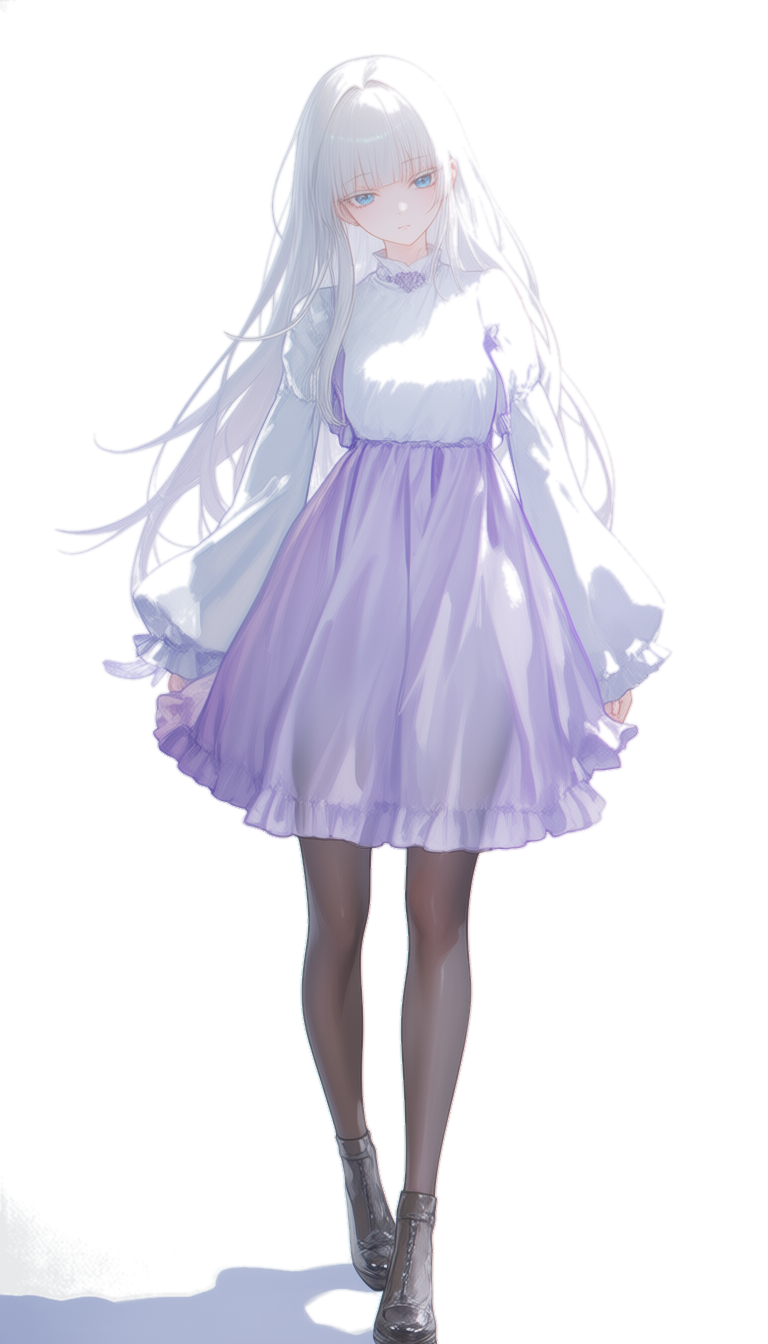
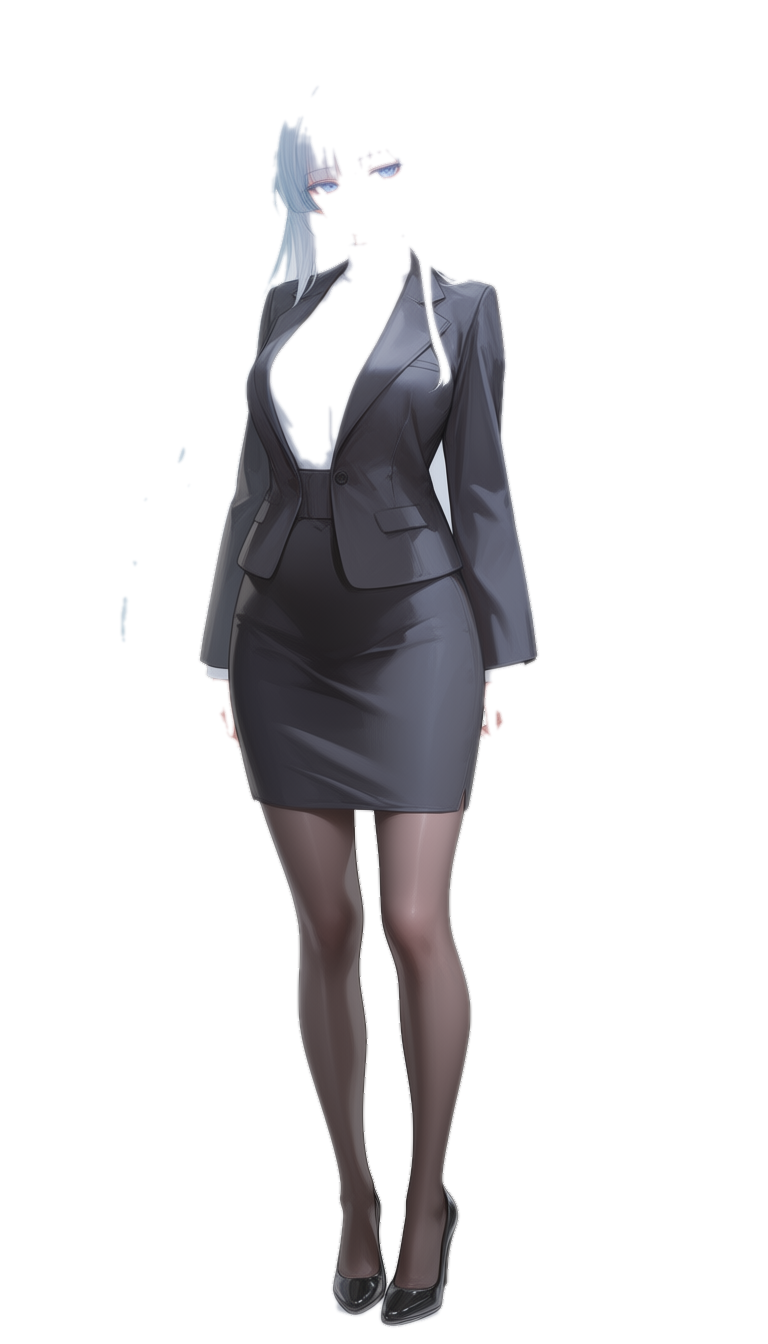
fix: 林仪立绘 v4（标准OL服+冷淡表情）

diff --git a/scripts/gen_fullbody.py b/scripts/gen_fullbody.py
@@ -34,12 +34,16 @@ NEGATIVE = ("worst quality, low quality, score_1, score_2, score_3, artist name,
 # 参考图版专用：参考图是 1216x832 角色场景图，负面词加场景词防泄漏
 REF_NEGATIVE = NEGATIVE + ", desk, office, classroom, computer, window, indoor, room, furniture, background objects"
 
+# 角色专属负面词（不污染全局 NEGATIVE——全局含 smile 会压制白月/苏昀/塞壬已确认的微笑表情）
+#   linyi v4: 用户要求更冷淡（防微笑/温暖/可爱）
+NEGATIVE_EXTRA = {"linyi": ", smile, warm expression, cute"}
+
 PREFIX = "masterpiece, best quality, score_7, safe, year 2026, newest, absurdres, highres, "
 
 # 2026-08-16 用户确认的最终外观描述（勿改，勿回退到草案表）
 CHARACTER_PROMPTS = {
     "baiyue": "1girl, solo, standing, full body, front view, green hair, green eyes, sailor collar school uniform, short pleated skirt, white over-knee socks, cheeky confident smile, young girl, simple white background, plain background, character illustration, soft brush texture",
-    "linyi": "1girl, solo, standing, full body, front view, white hair, long hair, blue eyes, white and purple dress, black pantyhose, mature, cold elegant expression, standing upright, arms at sides, relaxed natural pose, simple white background, plain background, character illustration, soft brush texture",
+    "linyi": "1girl, solo, standing, full body, front view, white hair, long hair, blue eyes, black blazer jacket, white blouse, black pencil skirt, black pantyhose, black high heels, mature, cold aloof expression, emotionless eyes, stern look, looking at viewer, standing upright, arms at sides, relaxed natural pose, simple white background, plain background, character illustration, soft brush texture",
     "liuyue": "1girl, solo, standing, full body, front view, long pink hair, ahoge, black hair accessory bow, pink eyes, delicate face, soft fair skin, white long-sleeve shirt, big black bow tie, black suspender skirt, lace decorations, black over-the-knee socks, lace on over-the-knee socks, shy expression, standing upright, arms at sides, relaxed natural pose, simple white background, plain background, character illustration, soft brush texture",
     "suyun": "1girl, solo, standing, full body, front view, rainbow-colored long hair tied back, golden eyes, white dress, light apron, mature gentle smile, soft warm expression, simple white background, plain background, character illustration, soft brush texture",
     "siren": "1girl, solo, standing, full body, front view, gray twin-tails with blue-purple gradient tips, purple eyes, pointed elf ears, silver tiara, small arm fins and head fins, white sheer camisole top, pearl and seashell accessories, mermaid tail, delicate fragile smile, simple white background, plain background, character illustration, soft brush texture",
@@ -64,7 +68,7 @@ def workflow(char_id, seed):
         "4": {"class_type": "CFGNorm", "inputs": {"model": ["3", 0], "strength": 1, "pre_cfg": False}},
         "5": {"class_type": "CLIPLoader", "inputs": {"clip_name": "miaomiaoHarem_anima8Step10_txt.safetensors", "type": "qwen_image", "device": "default"}},
         "6": {"class_type": "CLIPTextEncode", "inputs": {"text": PREFIX + CHARACTER_PROMPTS[char_id], "clip": ["5", 0]}},
-        "7": {"class_type": "CLIPTextEncode", "inputs": {"text": NEGATIVE, "clip": ["5", 0]}},
+        "7": {"class_type": "CLIPTextEncode", "inputs": {"text": NEGATIVE + NEGATIVE_EXTRA.get(char_id, ""), "clip": ["5", 0]}},
         "8": {"class_type": "EmptySD3LatentImage", "inputs": {"width": 768, "height": 1344, "batch_size": 1}},
         "9": {"class_type": "KSampler", "inputs": {"model": ["4", 0], "positive": ["6", 0], "negative": ["7", 0],
               "latent_image": ["8", 0], "seed": seed, "steps": 20, "cfg": 1.0,
@@ -158,7 +162,8 @@ def char_seed(char_id):
 
 # 单角色重跑种子覆盖（用户指定，记录在案）：
 #   linyi v3: 用户对 v2(1093860) 不满意，换种子重跑，提示词/参数不变
-SEED_OVERRIDES = {"linyi": 2157431}
+#   linyi v4: 用户要求换标准 OL 服 + 冷淡表情，换种子重跑
+SEED_OVERRIDES = {"linyi": 3186572}
 
 def workflow_ref(char_id, seed):
     """参考图版（img2img）：参考图 1216x832 -> 拉伸到 768x1344 -> VAEEncode 作初始潜变量
@@ -226,6 +231,44 @@ def gen_one_ref(char_id, seed):
     print(f"  {char_id} 参考图版超时（>900s），跳过", flush=True)
     return False
 
+def whiten_if_needed(raw_png, char_dir):
+    """背景增白（条件触发，参考 linyi v3 经验）：底图背景若偏色（边界连通亮区均值 <245），
+    把背景区（含暗斑）提升至纯白并羽化边界，覆盖 raw_fullbody.png（表情 inpaint 底图用纯白版）；
+    背景已近纯白则原样返回。原图保留为 raw_fullbody_orig.png。"""
+    try:
+        import numpy as np
+        from scipy import ndimage
+    except Exception:
+        return raw_png
+    arr = np.asarray(Image.open(raw_png).convert("RGB")).astype(np.int16)
+    light = arr.max(axis=2) > 200
+    if not light.any():
+        return raw_png
+    lab, n = ndimage.label(light)
+    border = np.zeros_like(lab, bool)
+    border[0, :] = border[-1, :] = border[:, 0] = border[:, -1] = True
+    bg_ids = set(lab[border])
+    bg_ids.discard(0)
+    if not bg_ids:
+        return raw_png
+    bgmask = np.isin(lab, list(bg_ids))
+    bg_mean = float(arr[bgmask].mean(axis=0).max())
+    if bg_mean >= 245:
+        print(f"  背景已近纯白（均值 {bg_mean:.0f}），跳过增白", flush=True)
+        return raw_png
+    out = arr.copy()
+    out[bgmask] = 255
+    feather = ndimage.gaussian_filter(bgmask.astype(float), 2.0)
+    for c in range(3):
+        out[..., c] = (arr[..., c] * (1.0 - feather) + 255.0 * feather)
+    prep = os.path.join(char_dir, "raw_fullbody_w.png")
+    Image.fromarray(np.clip(out, 0, 255).astype(np.uint8)).save(prep)
+    if os.path.exists(raw_png):
+        shutil.copy(raw_png, os.path.join(char_dir, "raw_fullbody_orig.png"))
+    shutil.copy(prep, raw_png)   # raw_fullbody.png 更新为增白版（表情 inpaint 白底底图）
+    print(f"  背景增白完成（均值 {bg_mean:.0f} -> 纯白），raw_fullbody.png 已更新", flush=True)
+    return raw_png
+
 def gen_one(char_id, seed, compare_rembg=False):
     print(f"生成 {char_id} (seed {seed}) ...", flush=True)
     resp = post("/prompt", {"prompt": workflow(char_id, seed)})
@@ -246,6 +289,7 @@ def gen_one(char_id, seed, compare_rembg=False):
                     os.makedirs(char_dir, exist_ok=True)
                     raw = os.path.join(char_dir, "raw_fullbody.png")
                     shutil.copy(src, raw)
+                    raw = whiten_if_needed(raw, char_dir)          # 背景偏色则先增白再抠
                     transparent = os.path.join(char_dir, "fullbody.png")
                     pil_ok = False
                     try:
